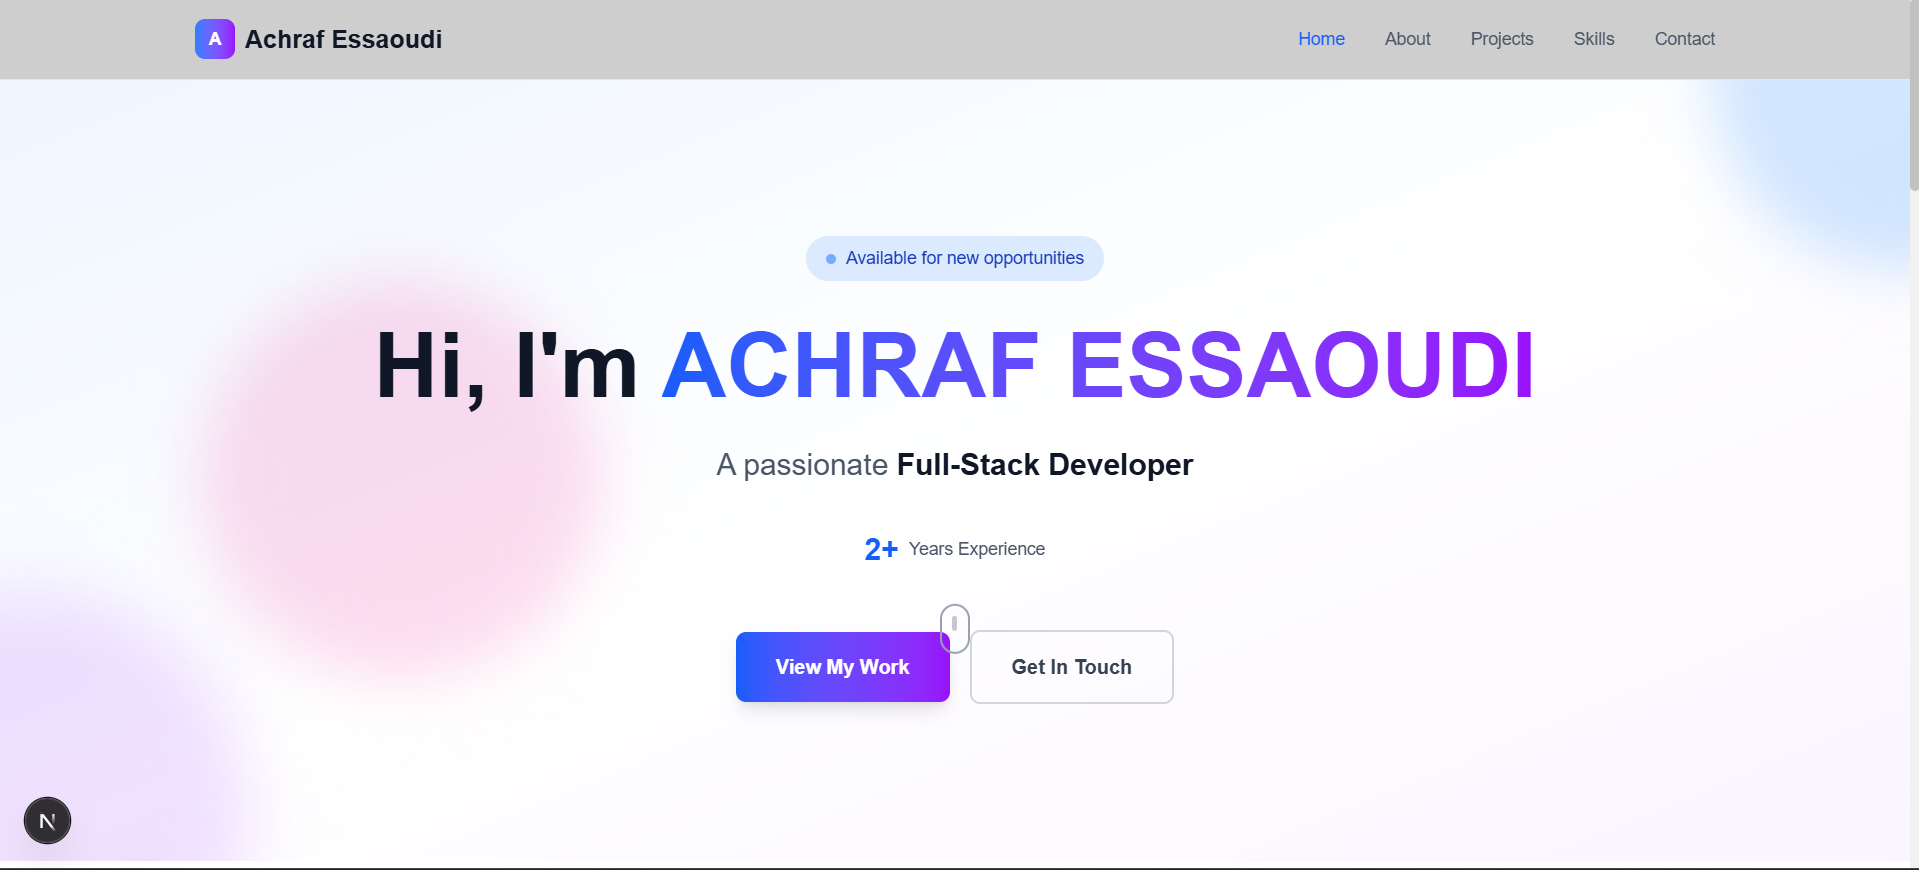
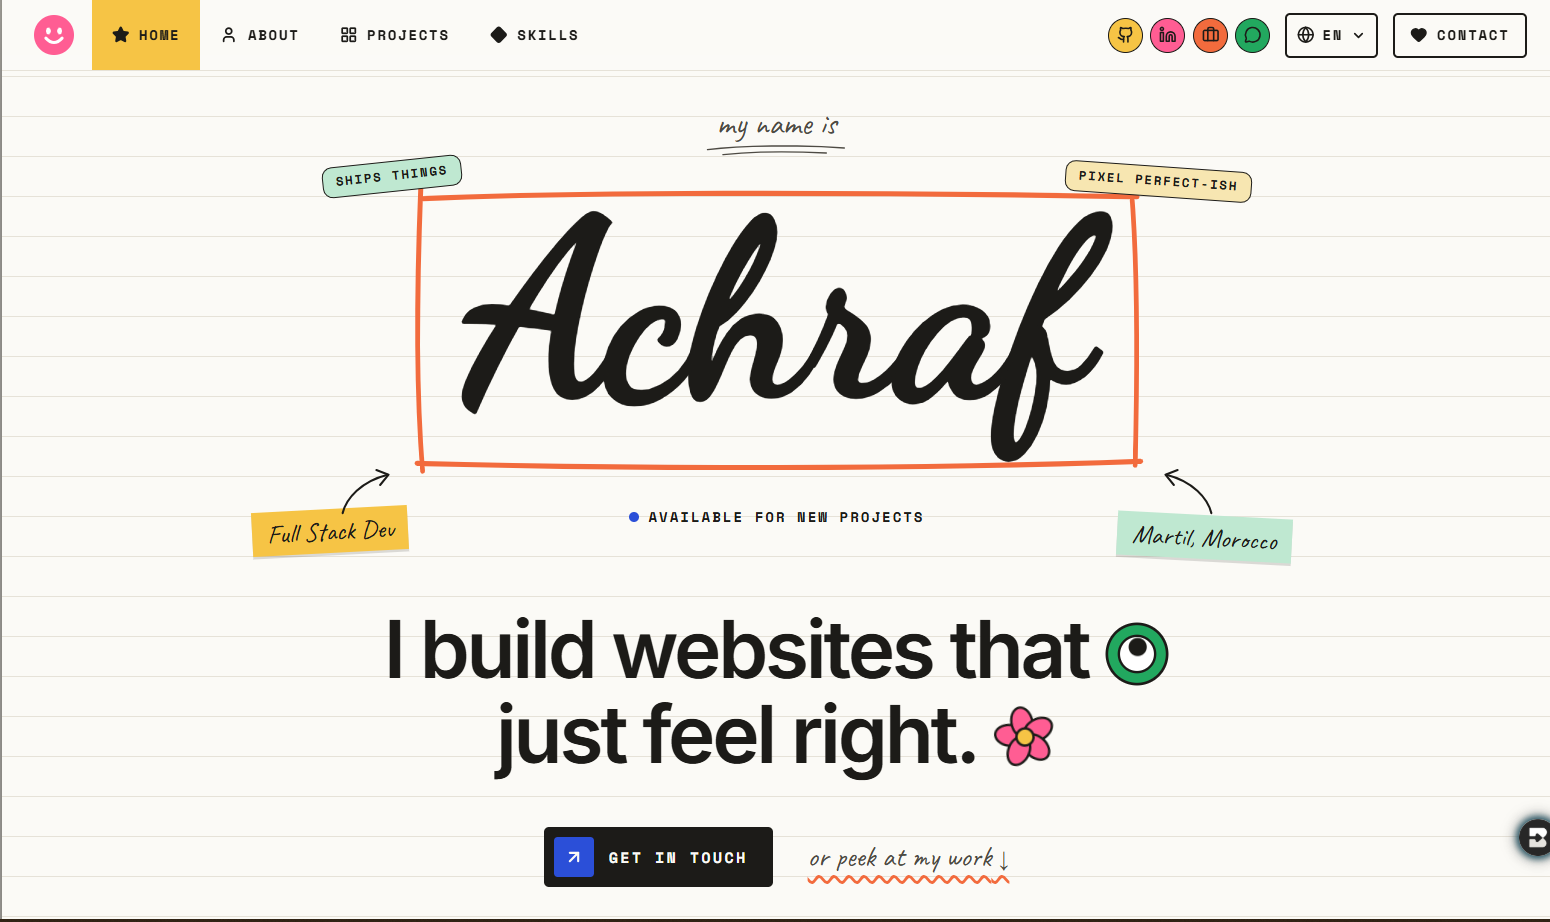
email and phone number deleted

diff --git a/src/components/ContactSection.tsx b/src/components/ContactSection.tsx
@@ -188,22 +188,6 @@ const ContactSection = () => {
             </p>
             <ul className="mt-2 border-t-2 border-paper-line font-hand text-[20px] text-ink">
               <li className="border-b-2 border-paper-line py-1.5">Achraf Essaoudi</li>
-              <li className="border-b-2 border-paper-line py-1.5">
-                <a href={`mailto:${SOCIALS.email}`} className={addressLink}>
-                  {SOCIALS.email}
-                </a>
-              </li>
-              <li className="border-b-2 border-paper-line py-1.5">
-                <a
-                  href={SOCIALS.whatsapp}
-                  target="_blank"
-                  rel="noopener noreferrer"
-                  dir="ltr"
-                  className={addressLink}
-                >
-                  {SOCIALS.phone}
-                </a>
-              </li>
               <li className="flex gap-5 border-b-2 border-paper-line py-1.5">
                 {[
                   { href: SOCIALS.github, label: "GitHub" },

diff --git a/src/components/Footer.tsx b/src/components/Footer.tsx
@@ -6,7 +6,6 @@ import { SOCIAL_LINKS } from "@/components/Navbar";
 import { Smiley } from "@/components/notebook/Doodles";
 import { SectionLink, scrollToSection, type SectionId } from "@/components/notebook/SectionLink";
 import { withEmoji } from "@/components/notebook/withEmoji";
-import { SOCIALS } from "@/lib/site";
 import { cn } from "@/lib/utils";
 
 const SITEMAP: SectionId[] = ["about", "projects", "skills", "contact"];
@@ -66,12 +65,6 @@ const Footer = () => {
               </li>
             ))}
           </ul>
-          <a
-            href={`mailto:${SOCIALS.email}`}
-            className="mt-4 inline-block font-hand text-[20px] text-ink underline decoration-paper-line decoration-2 underline-offset-4 transition-colors hover:text-cobalt hover:decoration-cobalt"
-          >
-            {SOCIALS.email}
-          </a>
         </div>
       </div>
 

diff --git a/src/components/Navbar.tsx b/src/components/Navbar.tsx
@@ -9,7 +9,6 @@ import {
   Heart,
   LayoutGrid,
   Linkedin,
-  MessageCircle,
   Star,
   User,
 } from "lucide-react";
@@ -31,7 +30,6 @@ export const SOCIAL_LINKS = [
   { href: SOCIALS.github, label: "GitHub", icon: Github, color: "bg-sun" },
   { href: SOCIALS.linkedin, label: "LinkedIn", icon: Linkedin, color: "bg-bubblegum" },
   { href: SOCIALS.upwork, label: "Upwork", icon: Briefcase, color: "bg-tangerine" },
-  { href: SOCIALS.whatsapp, label: "WhatsApp", icon: MessageCircle, color: "bg-leaf" },
 ];
 
 const SPY_IDS: SectionId[] = ["top", "about", "projects", "skills", "contact"];

diff --git a/src/lib/site.ts b/src/lib/site.ts
@@ -6,7 +6,4 @@ export const SOCIALS = {
   github: "https://github.com/ashrafess00",
   linkedin: "https://www.linkedin.com/in/achrafessaoudi/",
   upwork: "https://www.upwork.com/freelancers/~014aa9365463a4a2f4",
-  email: "achrafess1937@gmail.com",
-  whatsapp: "https://wa.me/212699229443",
-  phone: "+212 6 99 22 94 43",
 };
